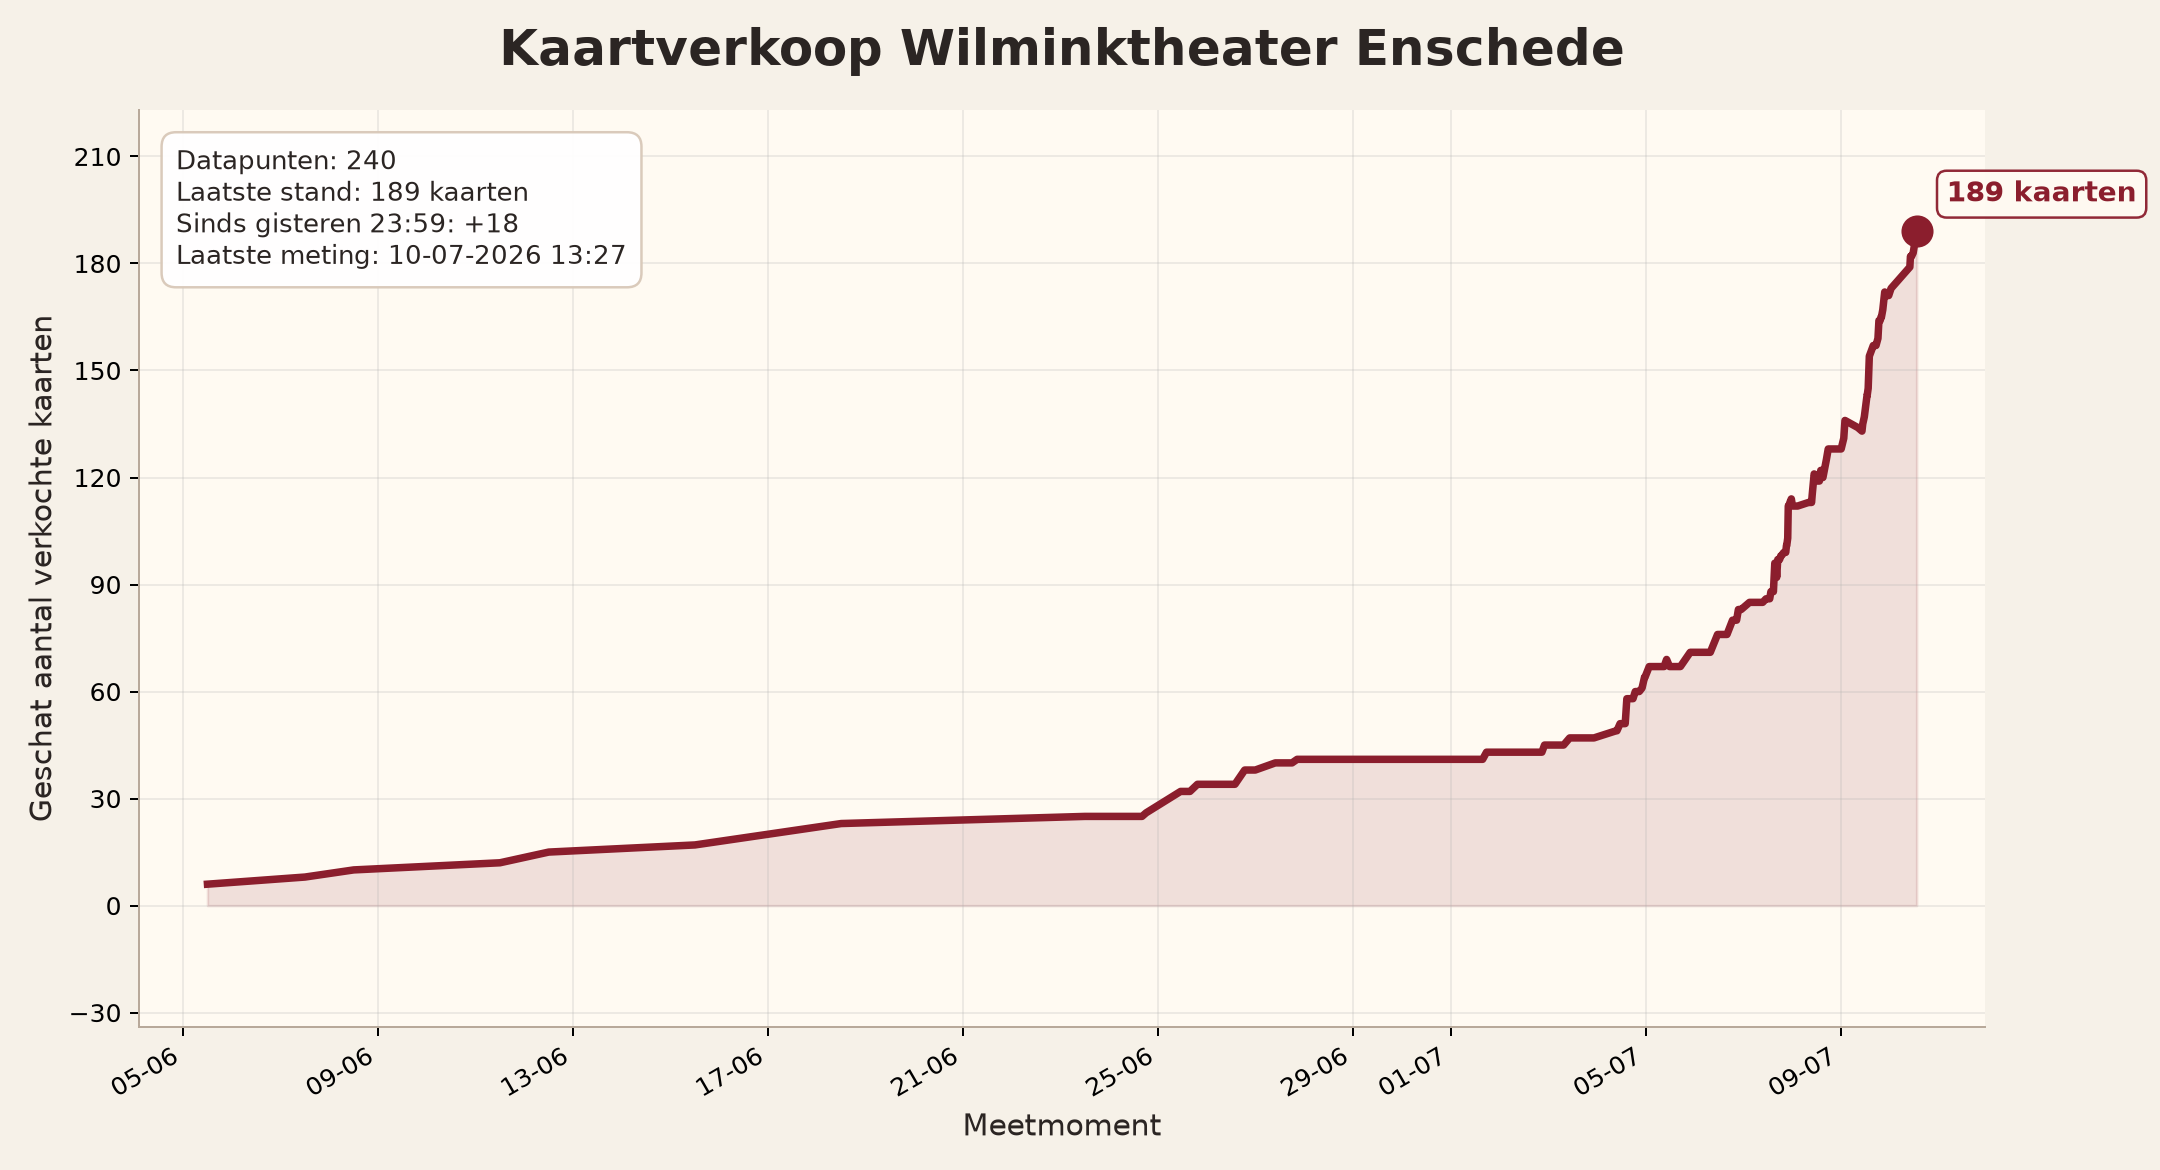
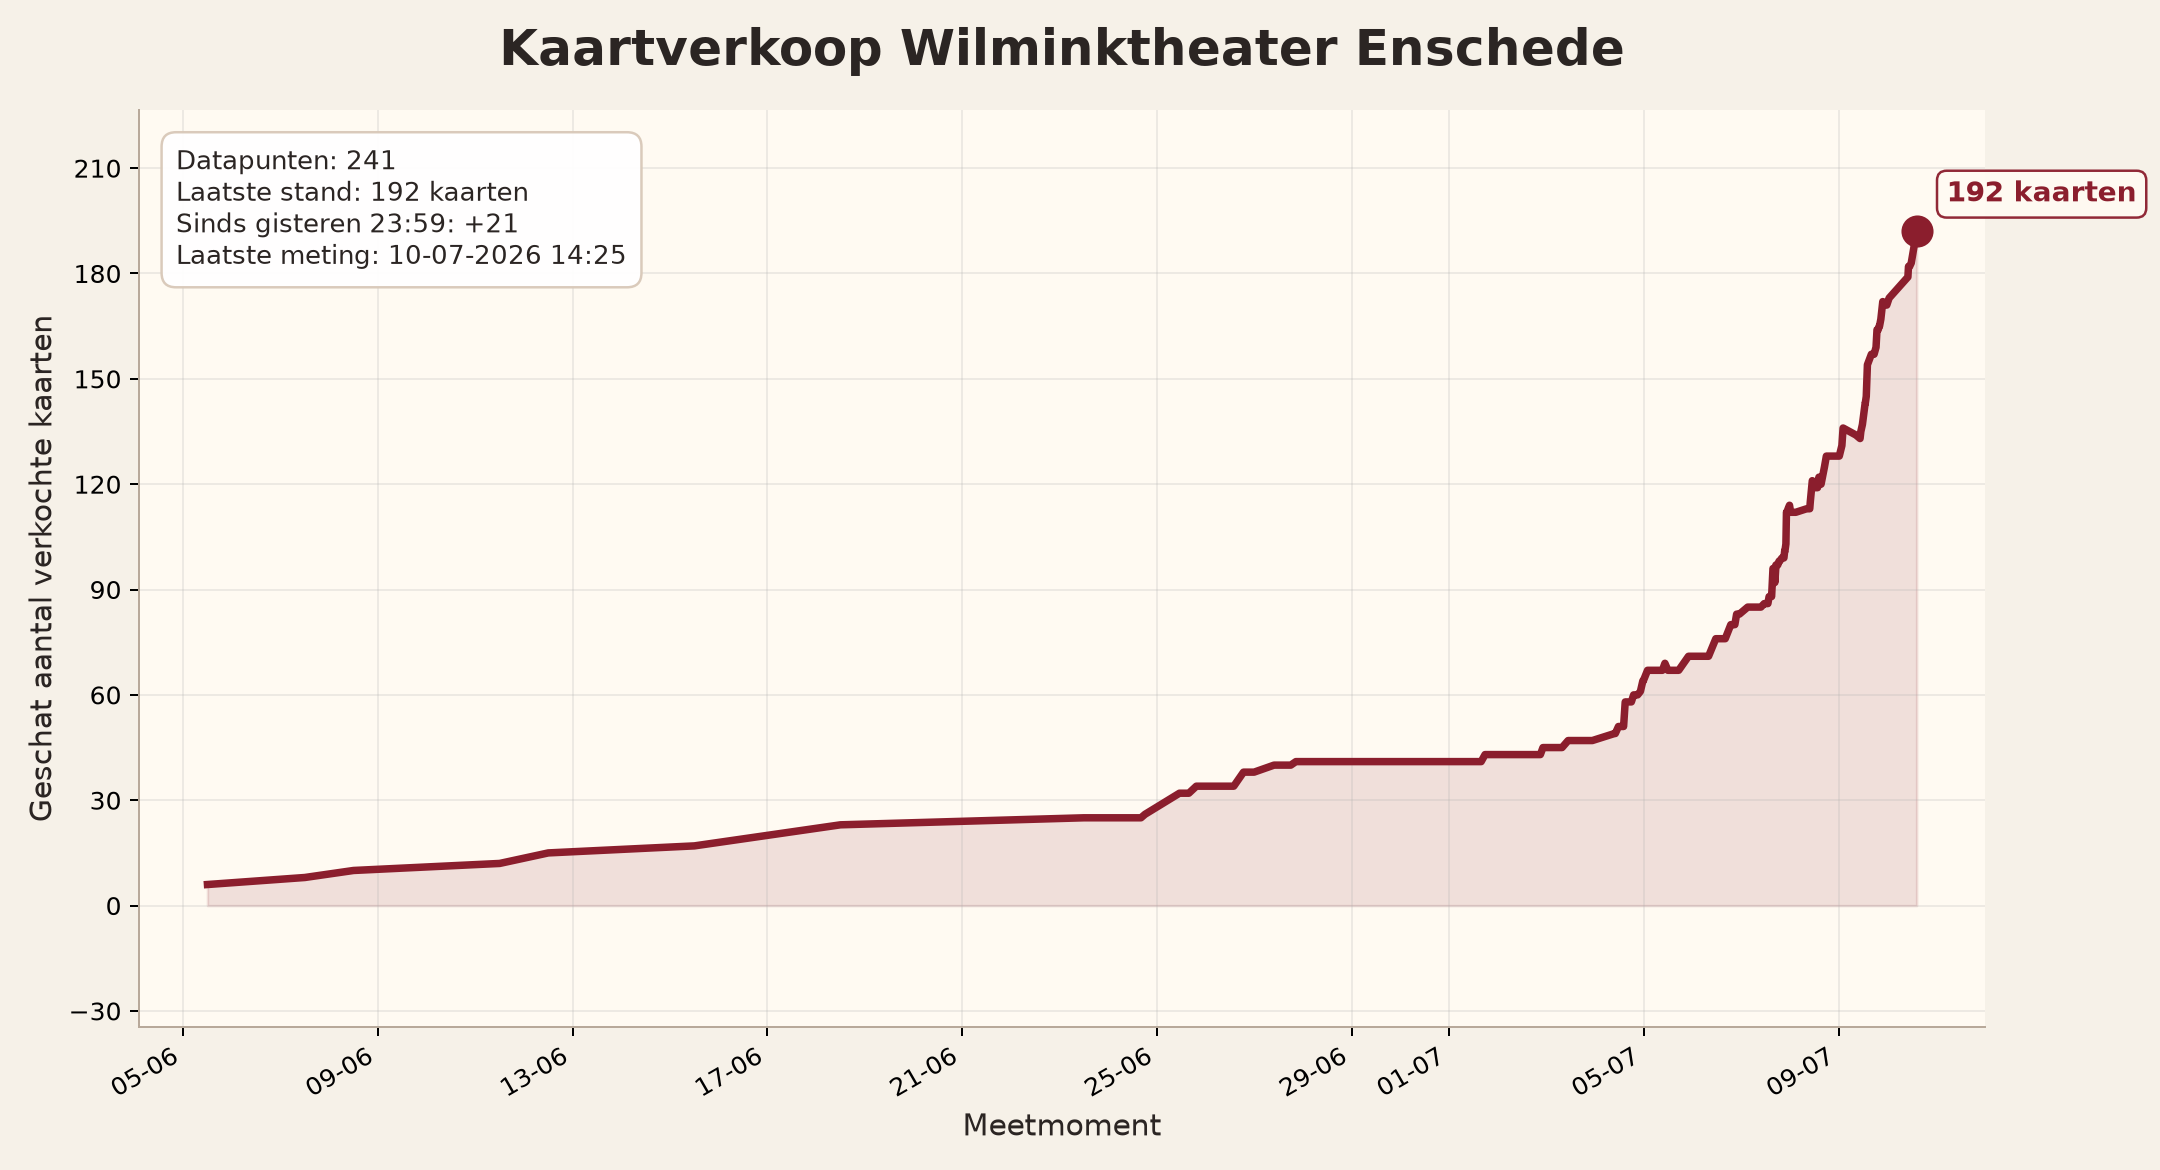
Update dashboard

diff --git a/docs/index.html b/docs/index.html
@@ -147,29 +147,29 @@
       <div class="stats">
         <div class="stat">
           <div class="label">Laatste geschatte verkoop</div>
-          <div class="value">189</div>
+          <div class="value">192</div>
         </div>
 
         <div class="stat">
           <div class="label">Laatste meting</div>
-          <div class="value small">10-07-2026 13:27</div>
+          <div class="value small">10-07-2026 14:25</div>
         </div>
 
         <div class="stat">
           <div class="label">Datapunten</div>
-          <div class="value">240</div>
+          <div class="value">241</div>
         </div>
 
         <div class="stat">
             <div class="label">Verkoop sinds gisteren 23:59</div>
-            <div class="value">+18</div>
+            <div class="value">+21</div>
         </div>
       </div>
     </section>
 
     <section class="card">
       <h2>Verkoopontwikkeling</h2>
-      <img src="assets/wilmink_estimated_tickets_sold.png?cache=240" alt="Grafiek geschatte kaartverkoop">
+      <img src="assets/wilmink_estimated_tickets_sold.png?cache=241" alt="Grafiek geschatte kaartverkoop">
 
       <div class="footer">
         <span>Deze pagina wordt bijgewerkt wanneer de tracker draait.</span>
